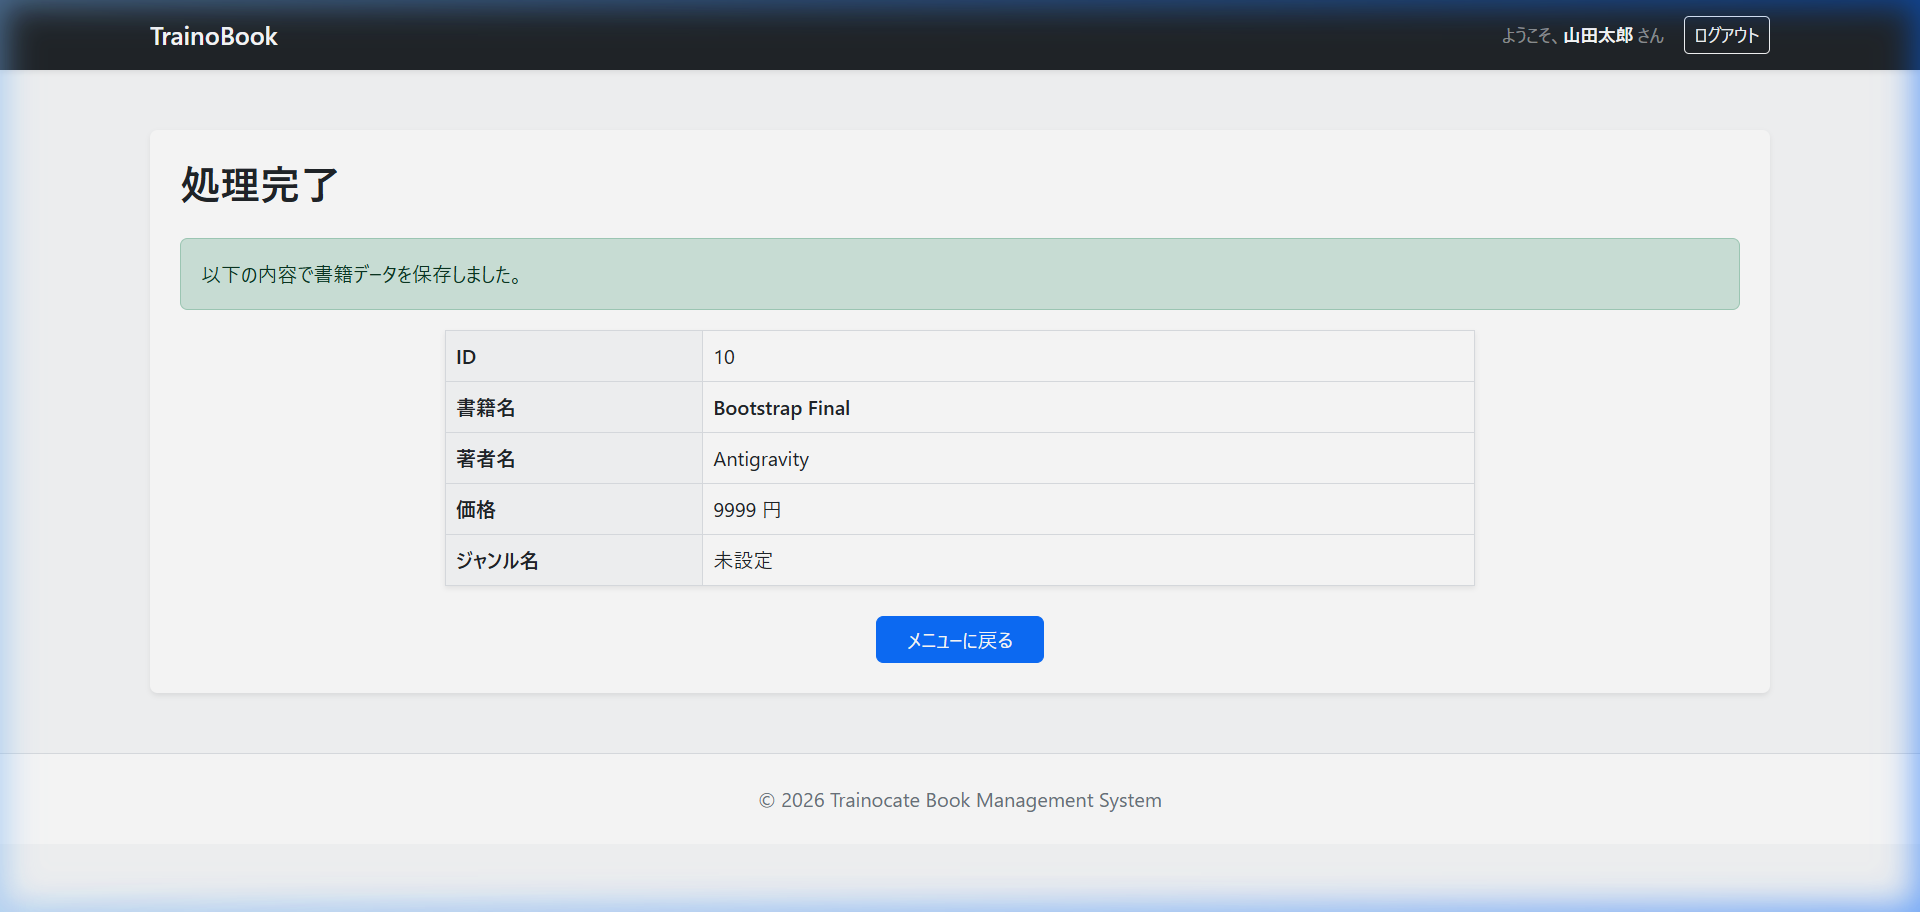
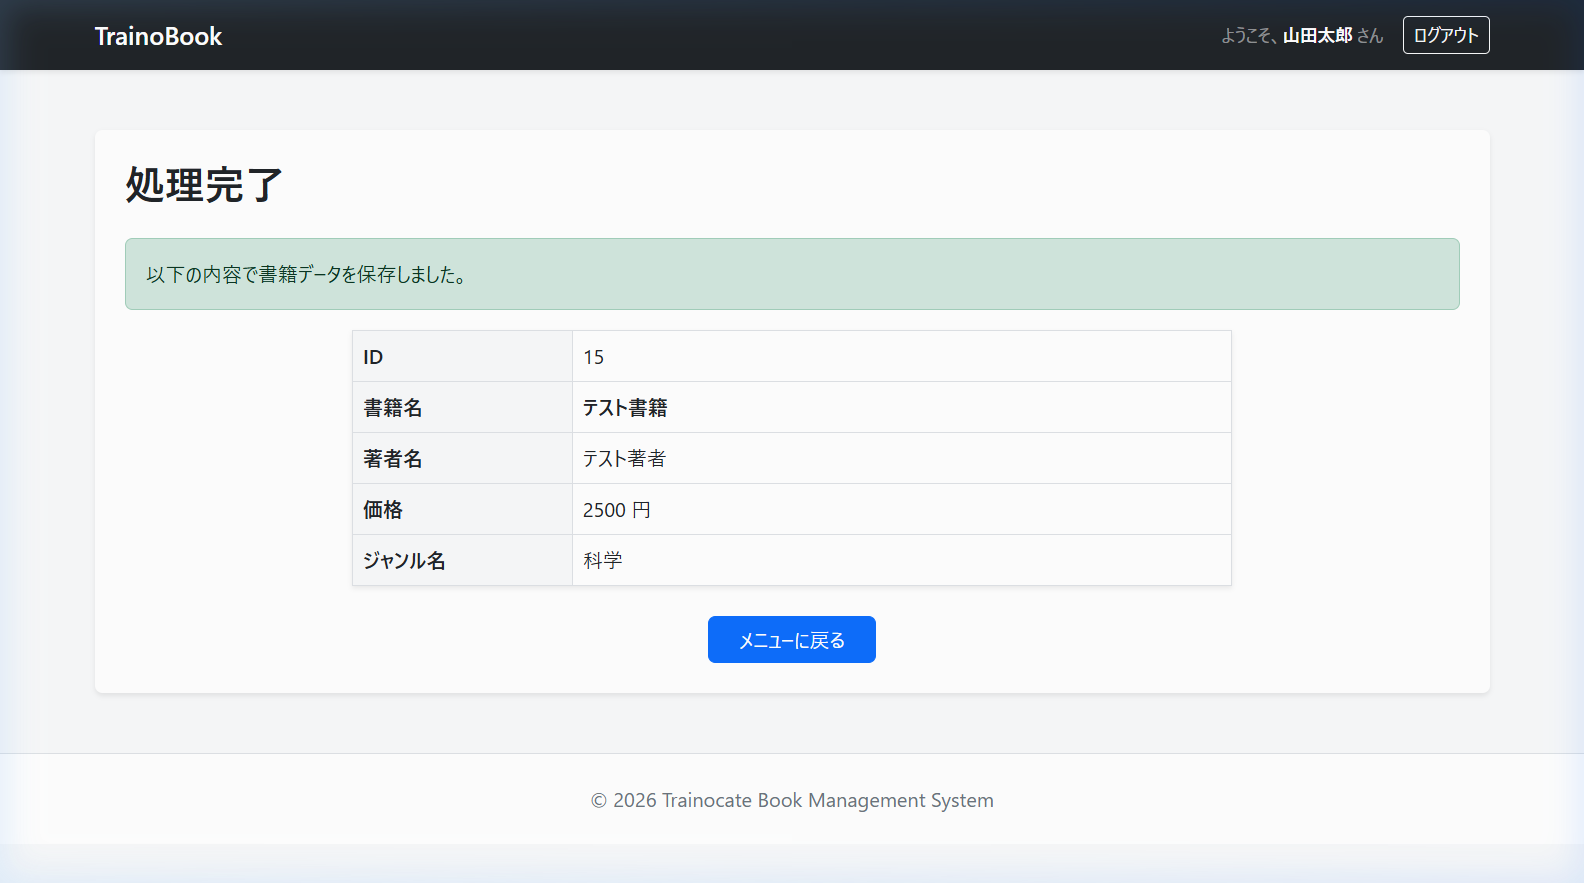
レビュー指摘事項の反映（ドキュメント修正・スクリーンショット差し替え・プレースホルダー修正）

diff --git a/TrainoBook_Answer_7/src/main/resources/templates/index.html b/TrainoBook_Answer_7/src/main/resources/templates/index.html
@@ -25,7 +25,7 @@
                         <!-- form-label: ラベル用のスタイル -->
                         <label for="userId" class="form-label">ユーザID</label>
                         <!-- form-control: 入力欄をモダンなデザインにし、幅を100%にする -->
-                        <input type="text" id="userId" name="userId" class="form-control" required placeholder="123456">
+                        <input type="text" id="userId" name="userId" class="form-control" required placeholder="100001">
                     </div>
                     <div class="mb-3">
                         <label for="password" class="form-label">パスワード</label>

diff --git a/TrainoBook_Answer_5/src/main/resources/templates/index.html b/TrainoBook_Answer_5/src/main/resources/templates/index.html
@@ -17,7 +17,7 @@
         <form th:action="@{/login}" method="post">
             <div>
                 <label for="userId">ユーザID</label>
-                <input type="text" id="userId" name="userId" required placeholder="123456">
+                <input type="text" id="userId" name="userId" required placeholder="100001">
             </div>
             <div>
                 <label for="password">パスワード</label>

diff --git a/TrainoBook_Answer_6/src/main/resources/templates/index.html b/TrainoBook_Answer_6/src/main/resources/templates/index.html
@@ -17,7 +17,7 @@
         <form th:action="@{/login}" method="post">
             <div>
                 <label for="userId">ユーザID</label>
-                <input type="text" id="userId" name="userId" required placeholder="123456">
+                <input type="text" id="userId" name="userId" required placeholder="100001">
             </div>
             <div>
                 <label for="password">パスワード</label>

diff --git a/docs/Comprehensive_Design_Specification.md b/docs/Comprehensive_Design_Specification.md
@@ -275,7 +275,7 @@ graph LR
 | :---: | :---: |
 | ![Final Form](images/ch7_form_standard.png) | ![Final Update](images/ch7_update_standard.png) |
 
-| 登録・更新完了画面（操作の成功を知らせる明示的な通知レイアウト） | 検索結果画面（該当なし：alert-infoクラスによる親切な0件案内） |
+| 登録・更新完了画面（操作の成功を知らせる明示的な通知レイアウト） | 検索結果画面（該当なし：alert-warningクラスによる親切な0件案内） |
 | :---: | :---: |
 | ![Final Confirm](images/ch7_confirm_standard.png) | ![Final No Results](images/ch7_search_no_hits_standard.png) |
 
@@ -288,19 +288,19 @@ graph LR
 
 ```mermaid
 erDiagram
-    BOOKS ||--o{ GENRES : "belongs to"
-    BOOKS {
+    book ||--o{ genre : "belongs to"
+    book {
         int id PK
         string title
         string author
         int price
         int genre_id FK
     }
-    GENRES {
+    genre {
         int id PK
         string name
     }
-    USERS {
+    user {
         int user_id PK
         string password
         string user_name
